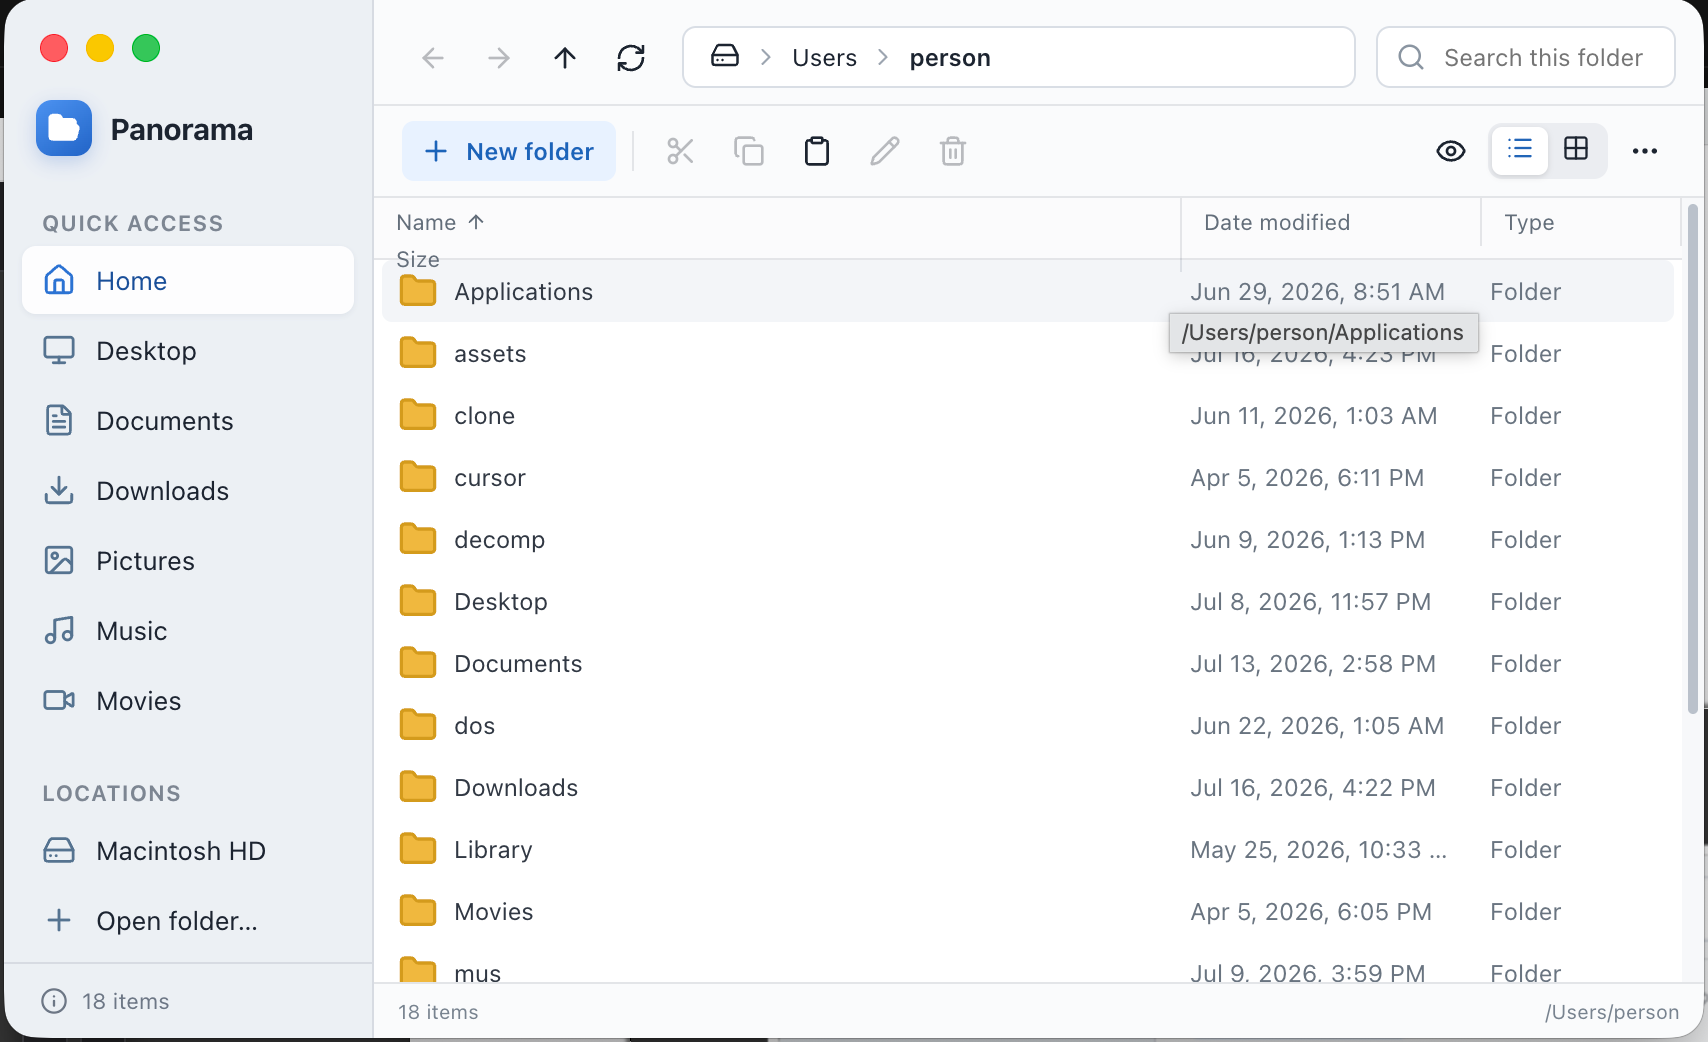
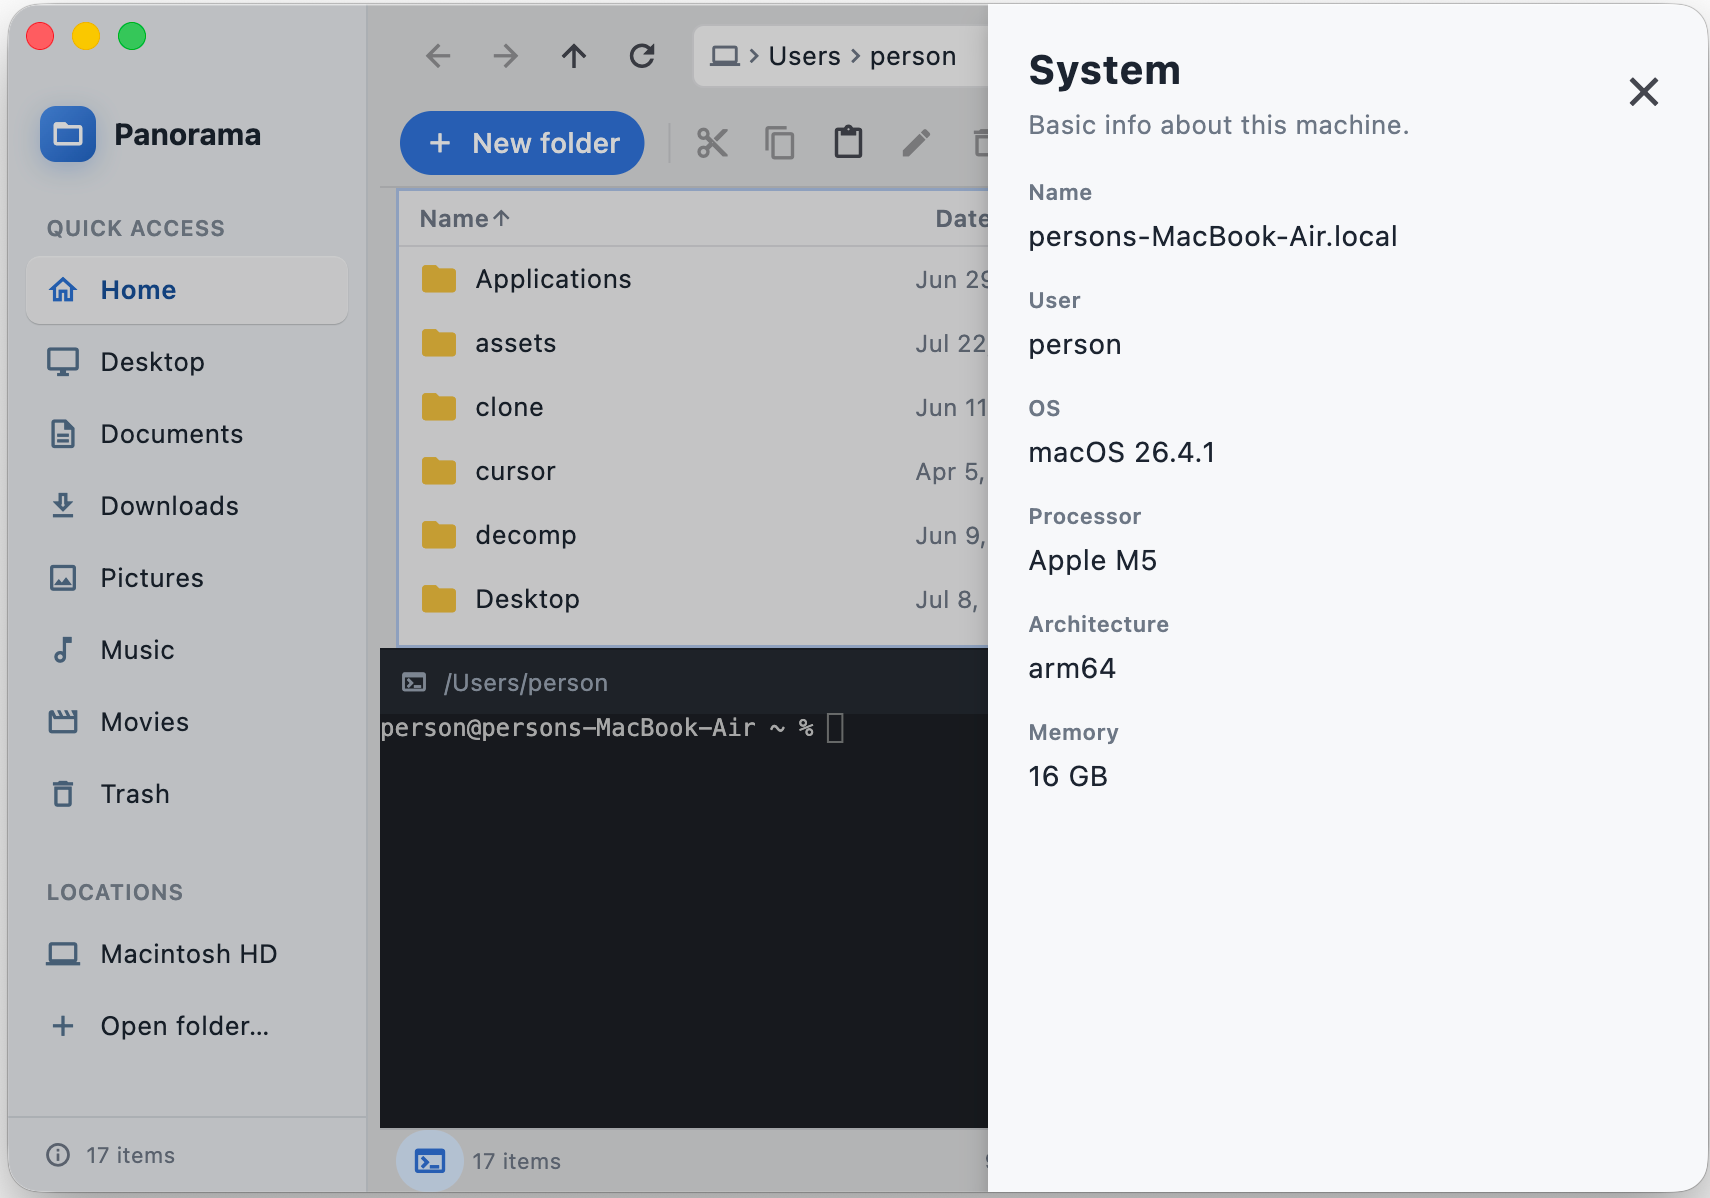
better screenshot

diff --git a/flutter_app/lib/widgets/chrome.dart b/flutter_app/lib/widgets/chrome.dart
@@ -290,6 +290,10 @@ class StatusBar extends StatelessWidget {
               }
             },
           ),
+          if (controller.terminalOpen && controller.terminalCollapsed) ...[
+            const SizedBox(width: 4),
+            _TerminalRunningChip(controller: controller),
+          ],
           const SizedBox(width: 4),
           Text(
             '${pane.visibleEntries.length} ${pane.visibleEntries.length == 1 ? 'item' : 'items'}',
@@ -327,6 +331,60 @@ class StatusBar extends StatelessWidget {
           ),
           const SizedBox(width: 6),
         ],
+      ),
+    );
+  }
+}
+
+class _TerminalRunningChip extends StatelessWidget {
+  const _TerminalRunningChip({required this.controller});
+
+  final AppController controller;
+
+  @override
+  Widget build(BuildContext context) {
+    return Material(
+      color: PanoramaColors.blueSoft,
+      borderRadius: BorderRadius.circular(6),
+      child: Padding(
+        padding: const EdgeInsets.only(left: 8, right: 2),
+        child: Row(
+          mainAxisSize: MainAxisSize.min,
+          children: [
+            Container(
+              width: 7,
+              height: 7,
+              decoration: const BoxDecoration(
+                color: Color(0xFF2E9B57),
+                shape: BoxShape.circle,
+              ),
+            ),
+            const SizedBox(width: 6),
+            InkWell(
+              onTap: () => controller.setTerminalCollapsed(false),
+              borderRadius: BorderRadius.circular(4),
+              child: const Padding(
+                padding: EdgeInsets.symmetric(vertical: 4, horizontal: 2),
+                child: Text(
+                  'Terminal running',
+                  style: TextStyle(
+                    fontSize: 11,
+                    fontWeight: FontWeight.w600,
+                    color: PanoramaColors.navActive,
+                  ),
+                ),
+              ),
+            ),
+            IconButton(
+              tooltip: 'Kill terminal',
+              visualDensity: VisualDensity.compact,
+              constraints: const BoxConstraints(minWidth: 28, minHeight: 28),
+              padding: EdgeInsets.zero,
+              onPressed: controller.closeTerminalPanel,
+              icon: const Icon(Icons.close, size: 14, color: PanoramaColors.navActive),
+            ),
+          ],
+        ),
       ),
     );
   }